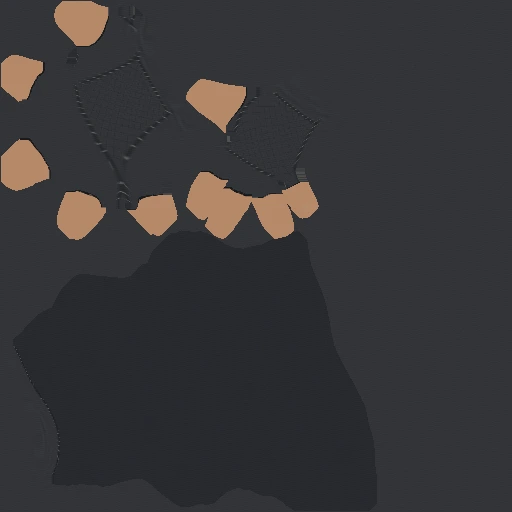
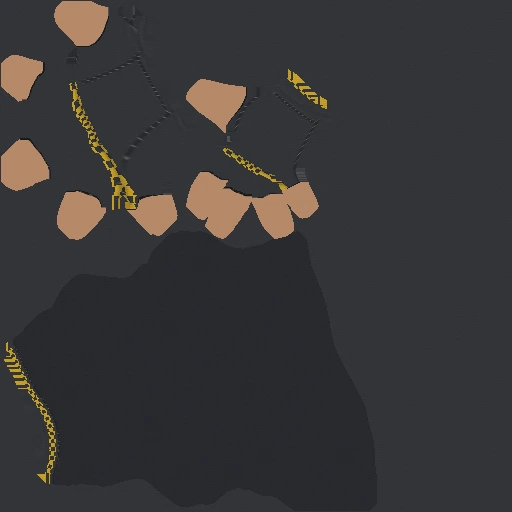
feat(maos): FUNKEIROS ganha cordão de ouro no pulso e nos nós dos dedos (proposta)
Crítico cego (rodada 1) reprovou o F: luva e manga escuras lisas, sem motivo — "é o U
sem o xadrez" e, na pistola, igual ao E. A arte da facção (public/img/faccoes/funkeiros.webp)
é ouro e corrente. Acento #c9a227, motivo `corrente`. Repinta os atlas F de K, L e A
(os F de K e L eram os aprovados em 06/09): commit separado para o dono aceitar ou
reverter sozinho. HAND_ATLAS_VERSION team-hands-7.

Agent: Claude Opus (vm-maos-por-time)

diff --git a/public/js/vmhands.js b/public/js/vmhands.js
@@ -4,14 +4,14 @@ export const TEAM_HANDS = Object.freeze({
   E: Object.freeze({ id: 'E', glove: '#34363a', sleeve: '#781f2a', accent: '#e2d6b5', motif: 'star', fingerless: false }),
   B: Object.freeze({ id: 'B', glove: '#4e5740', sleeve: '#4e5740', accent: '#a5a57b', motif: 'camo', fingerless: false }),
   C: Object.freeze({ id: 'C', glove: '#dad8cd', sleeve: '#493544', accent: '#ba3544', motif: 'plain', fingerless: false }),
-  F: Object.freeze({ id: 'F', glove: '#34363a', sleeve: '#292b30', accent: '#696b70', motif: 'plain', fingerless: true }),
+  F: Object.freeze({ id: 'F', glove: '#34363a', sleeve: '#292b30', accent: '#c9a227', motif: 'corrente', fingerless: true }),
   U: Object.freeze({ id: 'U', glove: '#34363a', sleeve: '#292b30', accent: '#d9d7cf', motif: 'checker', fingerless: true }),
   M: Object.freeze({ id: 'M', glove: '#4a3b28', sleeve: '#3d1f66', accent: '#b8914a', motif: 'trama', fingerless: false }),
 });
 // Neutro = base da fábrica (braco-coro-ak.json): luva e manga Mandrake da AK aprovada, em sRGB.
 const NEUTRAL_HANDS = Object.freeze({ id: 'neutral', glove: '#242f38', sleeve: '#243c4d', accent: '#797d80', motif: 'plain', fingerless: false });
 export const teamHandStyle = (faction) => TEAM_HANDS[faction] || NEUTRAL_HANDS;
-export const HAND_ATLAS_VERSION = 'team-hands-6';
+export const HAND_ATLAS_VERSION = 'team-hands-7';
 
 // Rig do braço → pasta de atlas (UVs distintos, pintura comum). O GLTFLoader tira os pontos
 // dos nomes de osso (hand.R_metarig → handR_metarig).
